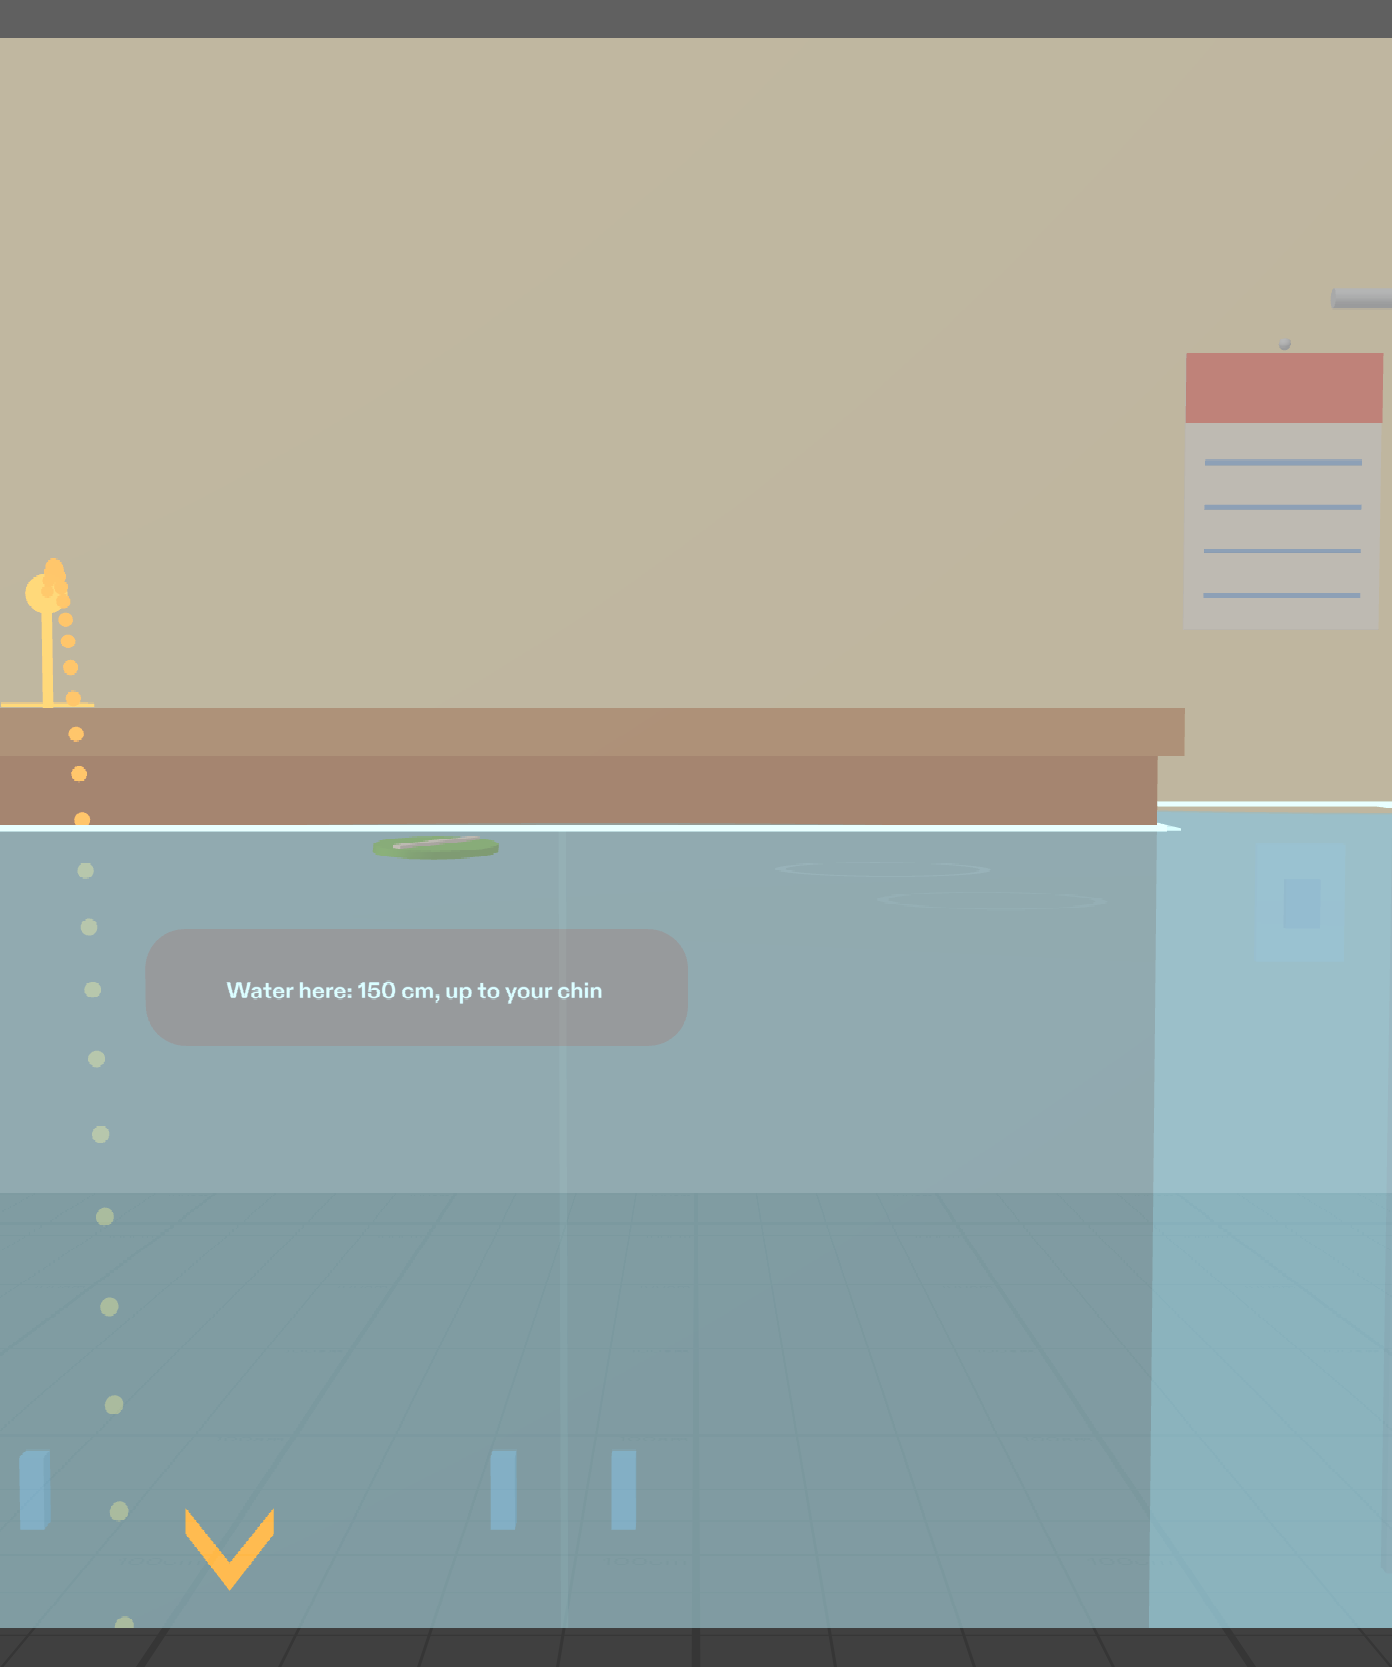
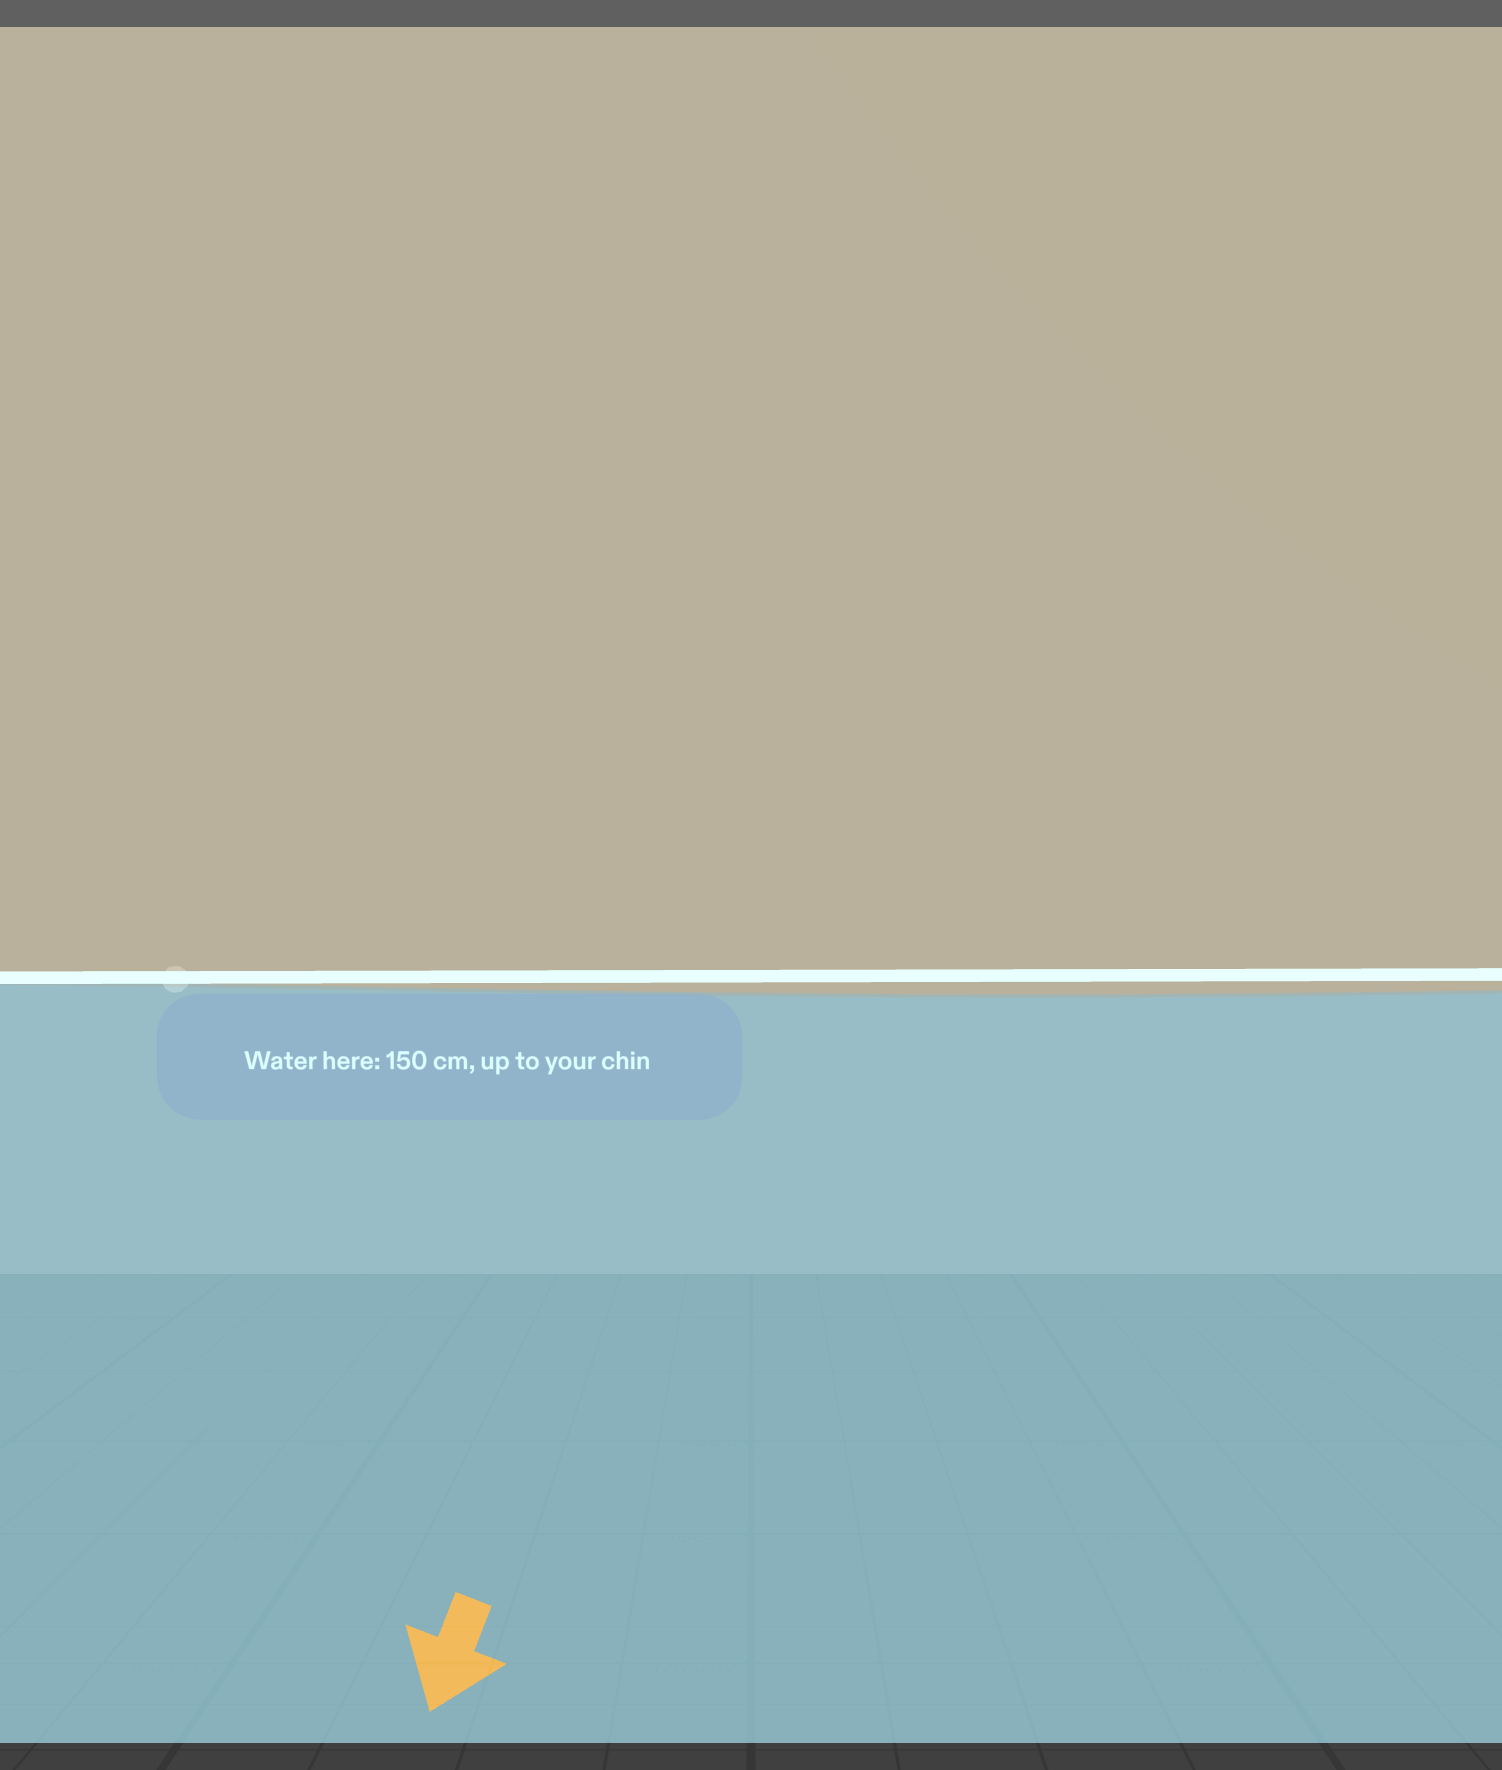
Build round 4: a cue at every step
The chevron points to the sideboard after the third tag; the river-alert
card appears (and returns) in front of wherever I'm facing; the mains
switch gets the edge arrow and splash once it glows; the depth tag draws
on top of furniture. LEAF playthroughs at Danger and Alert now find a cue
at every step; all six LEAF tests pass.

Claude-Session: https://claude.ai/code/session_01Xq9M7LRVJnTrvA6txpnNU2

diff --git a/Assets/Scripts/WaterlineMain.ts b/Assets/Scripts/WaterlineMain.ts
@@ -255,12 +255,19 @@ export class WaterlineMain extends BaseScriptComponent {
     this.pendingNextAt = -1
     if (this.items.every((i) => i.tagged)) {
       this.setState("choose")
-      this.levelCard.show()
+      this.showCardInFront()
     } else {
       this.setState("tagging")
       this.levelCard.hide()
     }
     this.setStartGuidance(this.state === "tagging" && !this.items.some((i) => i.tagged))
+  }
+
+  /** The river-alert card, in front of the user wherever they are facing. */
+  private showCardInFront(): void {
+    const camT = WorldCameraFinderProvider.getInstance().getComponent().getTransform()
+    const floorY = this.water.getSceneObject().getTransform().getWorldPosition().y
+    this.levelCard.showInFront(camT.getWorldPosition(), camT.forward.uniformScale(-1), floorY)
   }
 
   /** First-time guidance: the hint line and the chevron toward the belongings. Off after the first tag. */
@@ -275,12 +282,16 @@ export class WaterlineMain extends BaseScriptComponent {
     if (this.state !== "tagging" && this.state !== "choose") return
     const first = !b.tagged
     b.showTagged()
-    this.setStartGuidance(false)
+    // first-time guidance: the hint goes after the first tag; from the third tag on, the edge cue
+    // points to whatever is still untagged (e.g. the sideboard) until all five are tagged
+    const nTagged = this.items.filter((i) => i.tagged).length
+    this.hud.setStartHint(false)
+    this.guidance.setStartCue(nTagged >= 3 && nTagged < this.items.length ? this.items : null)
     this.audio.playTagPop(b.getCenterWorldPos())
     if (first) this.log(`tagged ${b.displayName}`)
     if (this.state === "tagging" && this.items.every((i) => i.tagged)) {
       this.setState("choose")
-      this.levelCard.show()
+      this.showCardInFront()
     }
   }
 
@@ -323,6 +334,7 @@ export class WaterlineMain extends BaseScriptComponent {
     } else {
       this.guidance.setTarget(null)
       this.mainsSwitch.setArmed(true)
+      this.guidance.setSwitchCue(this.mainsSwitch.getSceneObject().getTransform().getWorldPosition())
       this.setState("allSafe")
     }
   }
@@ -330,6 +342,7 @@ export class WaterlineMain extends BaseScriptComponent {
   private onMainsPressed(): void {
     if (this.state !== "allSafe") return
     this.runSeconds = getTime() - this.runStart
+    this.guidance.setSwitchCue(null)
     this.audio.playSwitchClick(this.mainsSwitch.getSceneObject().getTransform().getWorldPosition())
     this.water.animateTo(0, this.drainSeconds)
     this.water.setRain(false)
@@ -363,7 +376,7 @@ export class WaterlineMain extends BaseScriptComponent {
         this.hud.hideSummary()
         for (const it of this.items) it.resetHome()
         this.guidance.clearAll(this.items)
-        this.levelCard.show()
+        this.showCardInFront()
         this.setState("choose")
       }
     }

diff --git a/Assets/Scripts/WaterlineGuidance.ts b/Assets/Scripts/WaterlineGuidance.ts
@@ -86,6 +86,8 @@ export class WaterlineGuidance extends BaseScriptComponent {
   private arrowMode = "" // "side" | "below"
   private greenItem: WaterlineBelonging | null = null
   private startCueItems: WaterlineBelonging[] | null = null
+  private switchCuePos: vec3 | null = null
+  private switchCueShown = false
   private greenT = 0
   private t = 0
 
@@ -164,6 +166,8 @@ export class WaterlineGuidance extends BaseScriptComponent {
     for (const d of this.dots) d.enabled = false
     this.edgeArrow.enabled = false
     this.arrowShown = false
+    this.switchCuePos = null
+    this.switchCueShown = false
   }
 
   isArrowVisible(): boolean { return this.edgeArrow.enabled }
@@ -177,6 +181,17 @@ export class WaterlineGuidance extends BaseScriptComponent {
   }
 
   isStartCueOn(): boolean { return this.startCueItems !== null }
+
+  /**
+   * Once every flagged item is safe: the edge arrow (and a soft splash from the switch) whenever the
+   * glowing mains switch is out of view. Pass null to turn it off.
+   */
+  setSwitchCue(switchPos: vec3 | null): void {
+    this.switchCuePos = switchPos
+    this.switchCueShown = false
+  }
+
+  isSwitchCueOn(): boolean { return this.switchCuePos !== null }
   isDottedLineVisible(): boolean { return this.dots.length > 0 && this.dots[0].enabled }
   isPinVisible(item: WaterlineBelonging): boolean {
     const pin = this.findPin(item)
@@ -272,6 +287,26 @@ export class WaterlineGuidance extends BaseScriptComponent {
 
   getArrowMode(): string { return this.arrowMode }
 
+  /** Edge arrow toward the glowing switch while it is out of view, with a soft splash from it. */
+  private updateSwitchCue(): boolean {
+    const p = this.switchCuePos!
+    if (this.isInView(p)) {
+      if (this.switchCueShown) {
+        this.switchCueShown = false
+        this.audio.playSplash(p) // faced it: soft splash from the switch
+      }
+      return false
+    }
+    const camC = WorldCameraFinderProvider.getInstance().getComponent()
+    this.placeEdgeCue(camC, camC.getTransform(), p)
+    setAlpha(this.arrowMat, 0.85 + 0.15 * Math.sin(this.t * 5))
+    if (!this.switchCueShown) {
+      this.switchCueShown = true
+      this.audio.playSplash(p) // attention cue from the switch's direction
+    }
+    return true
+  }
+
   /**
    * Places the first-time cue toward the untagged belonging nearest the line of sight (at the start:
    * the low ones straight ahead, below the view, so it is the bottom chevron). Hidden once any
@@ -318,7 +353,7 @@ export class WaterlineGuidance extends BaseScriptComponent {
     const tgt = this.target
     if (!tgt) {
       for (const d of this.dots) if (d.enabled) d.enabled = false
-      this.edgeArrow.enabled = this.updateStartCue()
+      this.edgeArrow.enabled = this.switchCuePos ? this.updateSwitchCue() : this.updateStartCue()
       return
     }
 

diff --git a/Assets/Tests/WaterlinePlaythroughScenario.ts b/Assets/Tests/WaterlinePlaythroughScenario.ts
@@ -106,6 +106,9 @@ export class WaterlinePlaythroughScenario extends Scenario {
     const rest = ITEM_OBJECTS.filter((n) => !item(n).tagged)
     if (rest.length > 0) {
       const seen = rest.filter((n) => this.inView(item(n).getCenterWorldPos()))
+      if (seen.length === 0 && guidance().isArrowVisible()) {
+        print(`[Play] ${this.now()} ${rest.length} more to tag, out of view; the edge cue (${guidance().getArrowMode()}) points to them`)
+      }
       if (seen.length === 0 && !guidance().isArrowVisible()) {
         this.problem("tagged-low", `after tagging the ${low.length} low belongings, ${rest.length} more (${rest.map((n) => item(n).displayName).join(", ")}) are out of view and nothing tells me they exist or where they are`)
         await this.search()
@@ -144,7 +147,8 @@ export class WaterlinePlaythroughScenario extends Scenario {
 
     // ---- water rises ----
     await sleep(500)
-    await this.lookAt(this.pos.add(this.forward().uniformScale(200)).add(new vec3(0, -10, 0)))
+    // watch the water come up, looking level (the brief's "seeing the water" look)
+    await this.lookAt(this.pos.add(this.flatForward().uniformScale(200)).add(new vec3(0, -10, 0)))
     await this.checkpoint("rising")
     await waitUntil(() => m.getState() === "lifting" || m.getState() === "allSafe", 8)
     this.step(`water rising to ${m.getLevelCm()} cm`)
@@ -163,7 +167,9 @@ export class WaterlinePlaythroughScenario extends Scenario {
     const sw = m.mainsSwitch.getSceneObject().getTransform().getWorldPosition()
     await this.checkpoint("all-safe")
     await sleep(REACT_S * 1000)
-    if (!this.inView(sw)) {
+    if (!this.inView(sw) && guidance().isArrowVisible()) {
+      print(`[Play] ${this.now()} the switch glows ${this.angleTo(sw).toFixed(0)}° away; the edge cue (${guidance().getArrowMode()}) points to it`)
+    } else if (!this.inView(sw)) {
       this.problem("all-safe", `every item is safe and the switch glows, but it is ${this.angleTo(sw).toFixed(0)}° away from where I am looking and nothing points to it`)
       await this.search()
     }
@@ -384,7 +390,11 @@ export class WaterlinePlaythroughScenario extends Scenario {
         }
       }
     }
-    print(`[Play] ${this.now()} checkpoint ${id}: drawn [${main().getRenderedLensElements().join(", ")}]`)
+    const drawn = main().getRenderedLensElements()
+    if (drawn.indexOf("DepthTag") >= 0 && !main().hud.isDepthOnTop()) {
+      this.problem(id, "the depth tag is drawn with depth testing on, so furniture can cut it off")
+    }
+    print(`[Play] ${this.now()} checkpoint ${id}: drawn [${drawn.join(", ")}]`)
     if (id === this.stopAt) {
       await LeafHandInteractor.get("right").hand.hide()
       await LeafHandInteractor.get("left").hand.hide()

diff --git a/Assets/Tests/WaterlineC5bQuietStartScenario.ts b/Assets/Tests/WaterlineC5bQuietStartScenario.ts
@@ -5,13 +5,14 @@
  *  1. Start flash: every frame of the first 8 s after the restart (recorded by WaterlineMain from
  *     its first frame), with no input, may draw only the tagging step's first-time hint line and
  *     its bottom chevron — never the level card, depth tag, summary, water or any other panel.
- *  2. The first tag hides the hint and the chevron; each tick fades within 2 s; nothing else shows.
+ *  2. The first tag hides the hint and the chevron; each tick fades within 2 s. From the third tag
+ *     on, while anything is still untagged and out of view, the edge cue points to it.
  *  3. After the fifth tag, the level card appears on its own.
  */
 import {Scenario} from "Leaf.lspkg/Scenarios/scenario/Scenario"
 import {expect} from "Leaf.lspkg/Utils/common/Expect"
 import {sleep, nextFrame} from "Leaf.lspkg/Utils/common/Utils"
-import {CameraRig, item, ITEM_OBJECTS, main, pinch, waitUntil} from "./WaterlineTestKit"
+import {CameraRig, guidance, item, ITEM_OBJECTS, main, pinch, waitUntil} from "./WaterlineTestKit"
 
 /** Allowed during the untouched start: the tagging step's first-time guidance. */
 const START_ALLOWED = ["StartHint", "StartChevron"]
@@ -62,7 +63,16 @@ export class WaterlineC5bQuietStartScenario extends Scenario {
         const shown = item(name).isTickVisible()
         const t = await waitUntil(() => !item(name).isTickVisible(), 3)
         worstTickS = Math.max(worstTickS, t)
-        const others = m.getRenderedLensElements().filter((e) => e !== "LevelCard" && !e.startsWith("Outline:"))
+        const nTagged = ITEM_OBJECTS.filter((n) => item(n).tagged).length
+        const left = ITEM_OBJECTS.filter((n) => !item(n).tagged)
+        const leftInView = left.some((n) => guidance().isInView(item(n).getCenterWorldPos()))
+        const drawn = m.getRenderedLensElements()
+        if (nTagged >= 3 && left.length > 0 && !leftInView) {
+          print(`[C5b] after tag ${nTagged}: ${left.length} untagged, out of view; cue drawn=${drawn.indexOf("StartChevron") >= 0} (${guidance().getArrowMode()})`)
+          expect(drawn.indexOf("StartChevron") >= 0, `after tag ${nTagged}, a cue points to the untagged belongings`).toBe(true)
+        }
+        const others = drawn.filter((e) => e !== "LevelCard" && e !== "StartChevron" && !e.startsWith("Outline:"))
+        if (nTagged < 3) expect(drawn.indexOf("StartChevron") < 0, `no cue after tag ${nTagged}`).toBe(true)
         print(`[C5b] tagged ${name}: tick shown=${shown}, faded after ${t.toFixed(2)} s; other Lens elements: [${others.join(", ")}]`)
         expect(shown, `${name}: tick appears on pinch`).toBe(true)
         expect(t >= 0 && t <= 2.1, `${name}: tick fades within 2 s`).toBe(true)

diff --git a/Assets/Scripts/WaterlineHudUI.ts b/Assets/Scripts/WaterlineHudUI.ts
@@ -97,6 +97,7 @@ export class WaterlineHudUI extends BaseScriptComponent {
   private wantSummary = false
   private hintRoot!: SceneObject
   private hintPlate!: BackPlate
+  private summaryPlate!: BackPlate
   private wantHint = false
 
   onAwake() {
@@ -108,6 +109,7 @@ export class WaterlineHudUI extends BaseScriptComponent {
 
     this.summaryRoot = this.makePanel("SummaryLine", new vec3(0, -4, -this.summaryDistanceCm), 24, 3.2)
     this.summaryText = this.addLine(this.lastContent, "", "HeadlineXL", 95, 20, 3.0, new vec4(1, 1, 1, 1))
+    this.summaryPlate = this.lastPlate
 
     const hk = 0.8
     this.hintRoot = this.makePanel("StartHint", new vec3(0, -this.hintDropCm, -this.hintDistanceCm), 21 * hk, 2.4 * hk)
@@ -124,6 +126,9 @@ export class WaterlineHudUI extends BaseScriptComponent {
         this.started = true
         this.lightenPlate(this.depthPlate, this.depthPlateColor)
         this.lightenPlate(this.hintPlate, this.depthPlateColor)
+        // body-relative panels are drawn on top of everything (like the edge arrow), so furniture
+        // never cuts them off when you stand close to it
+        for (const p of [this.depthPlate, this.hintPlate, this.summaryPlate]) this.drawOnTop(p)
         this.depthRoot.enabled = this.wantDepth
         this.summaryRoot.enabled = this.wantSummary
         this.hintRoot.enabled = this.wantHint
@@ -237,6 +242,18 @@ export class WaterlineHudUI extends BaseScriptComponent {
     return root
   }
 
+  /** No depth test on the plate: it is never hidden or cut by furniture, the water or the walls. */
+  private drawOnTop(plate: BackPlate): void {
+    const rmv = plate.getSceneObject().getComponent("Component.RenderMeshVisual") as RenderMeshVisual
+    if (rmv && rmv.mainMaterial) rmv.mainMaterial.mainPass.depthTest = false
+  }
+
+  /** True if the depth tag's plate draws on top of everything (for the tests). */
+  isDepthOnTop(): boolean {
+    const rmv = this.depthRoot.getComponent("Component.RenderMeshVisual") as RenderMeshVisual
+    return !!rmv && !!rmv.mainMaterial && !rmv.mainMaterial.mainPass.depthTest && !this.depthText.depthTest
+  }
+
   /** Lighter look: a flat, pale, see-through plate instead of the default dark gradient. */
   private lightenPlate(plate: BackPlate, color: vec4): void {
     plate.style = "simple"
@@ -252,7 +269,7 @@ export class WaterlineHudUI extends BaseScriptComponent {
     so.setParent(parent)
     const t = so.createComponent("Component.Text") as Text
     t.text = s
-    t.depthTest = true
+    t.depthTest = false // drawn on top of everything, like its plate
     t.setRenderOrder(1001)
     applyTextRole(t, role, distanceCm)
     t.textFill.color = color

diff --git a/Assets/Scripts/WaterlineLevelCardUI.ts b/Assets/Scripts/WaterlineLevelCardUI.ts
@@ -136,6 +136,28 @@ export class WaterlineLevelCardUI extends BaseScriptComponent {
 
   isShown(): boolean { return this.wantVisible }
 
+  /**
+   * Show the card in front of the user, wherever they are facing: 80 cm along the line of sight
+   * (at least 60 cm out horizontally), between 90 cm above the floor and just below eye level,
+   * turned to face the eyes. Looking down at belongings, that is about 110 cm high, as in the brief.
+   */
+  showInFront(eye: vec3, look: vec3, floorY: number): void {
+    const flat = new vec3(look.x, 0, look.z)
+    const fwd = flat.length > 0.001 ? flat.normalize() : new vec3(0, 0, -1)
+    const pitch = Math.asin(Math.max(-1, Math.min(1, look.normalize().y)))
+    const D = 80
+    const horiz = Math.max(60, D * Math.cos(pitch))
+    const y = Math.max(floorY + 90, Math.min(eye.y - 8, eye.y + D * Math.sin(pitch)))
+    const p = new vec3(eye.x + fwd.x * horiz, y, eye.z + fwd.z * horiz)
+    const t = this.getSceneObject().getTransform()
+    t.setWorldPosition(p)
+    t.setWorldRotation(quat.lookAt(eye.sub(p).normalize(), vec3.up()))
+    this.show()
+  }
+
+  /** Where the card is (world): for tests and the playthrough. */
+  getWorldPosition(): vec3 { return this.getSceneObject().getTransform().getWorldPosition() }
+
   /** True if the card is actually drawn this frame (enabled and not shrunk away). */
   isRendered(): boolean {
     return !!this.card && this.card.isEnabledInHierarchy && this.card.getTransform().getWorldScale().x > 0.01

diff --git a/Assets/Tests/WaterlineTestKit.ts b/Assets/Tests/WaterlineTestKit.ts
@@ -113,14 +113,14 @@ export async function readyAtLevelCard(): Promise<void> {
     }
   }
   if (m.getState() !== "choose") throw new Error(`expected state 'choose' after tagging, got '${m.getState()}'`)
-  // face the level card
-  CameraRig.setPose(CameraRig.standingAt(0, 0), 0, -30)
+  // face the level card (it appears in front of wherever you were looking)
+  CameraRig.lookAt(CameraRig.standingAt(0, 0), m.levelCard.getWorldPosition())
   await sleep(300)
 }
 
 /** Press a level button; returns getTime() at the press. */
 export async function pressLevel(level: "Alert" | "Warning" | "Danger"): Promise<number> {
-  CameraRig.setPose(CameraRig.standingAt(0, 0), 0, -30)
+  CameraRig.lookAt(CameraRig.standingAt(0, 0), main().levelCard.getWorldPosition())
   await nextFrame()
   const it = findInteractableByName(`${level}Button`, undefined, true)
   if (!it) throw new Error(`${level}Button not found / not enabled`)

diff --git a/Assets/Tests/WaterlineDemoDirector.ts b/Assets/Tests/WaterlineDemoDirector.ts
@@ -64,7 +64,7 @@ export class WaterlineDemoDirector extends BaseScriptComponent {
     }
     await readyAtLevelCard()
     if (s === "card") {
-      CameraRig.setPose(this.eye(0, 0), 0, -20)
+      // readyAtLevelCard leaves the head facing the card, which appears in front of wherever you looked
       await LeafHandInteractor.get("right").hand.hide()
       await LeafHandInteractor.get("left").hand.hide()
       this.hideHands()
